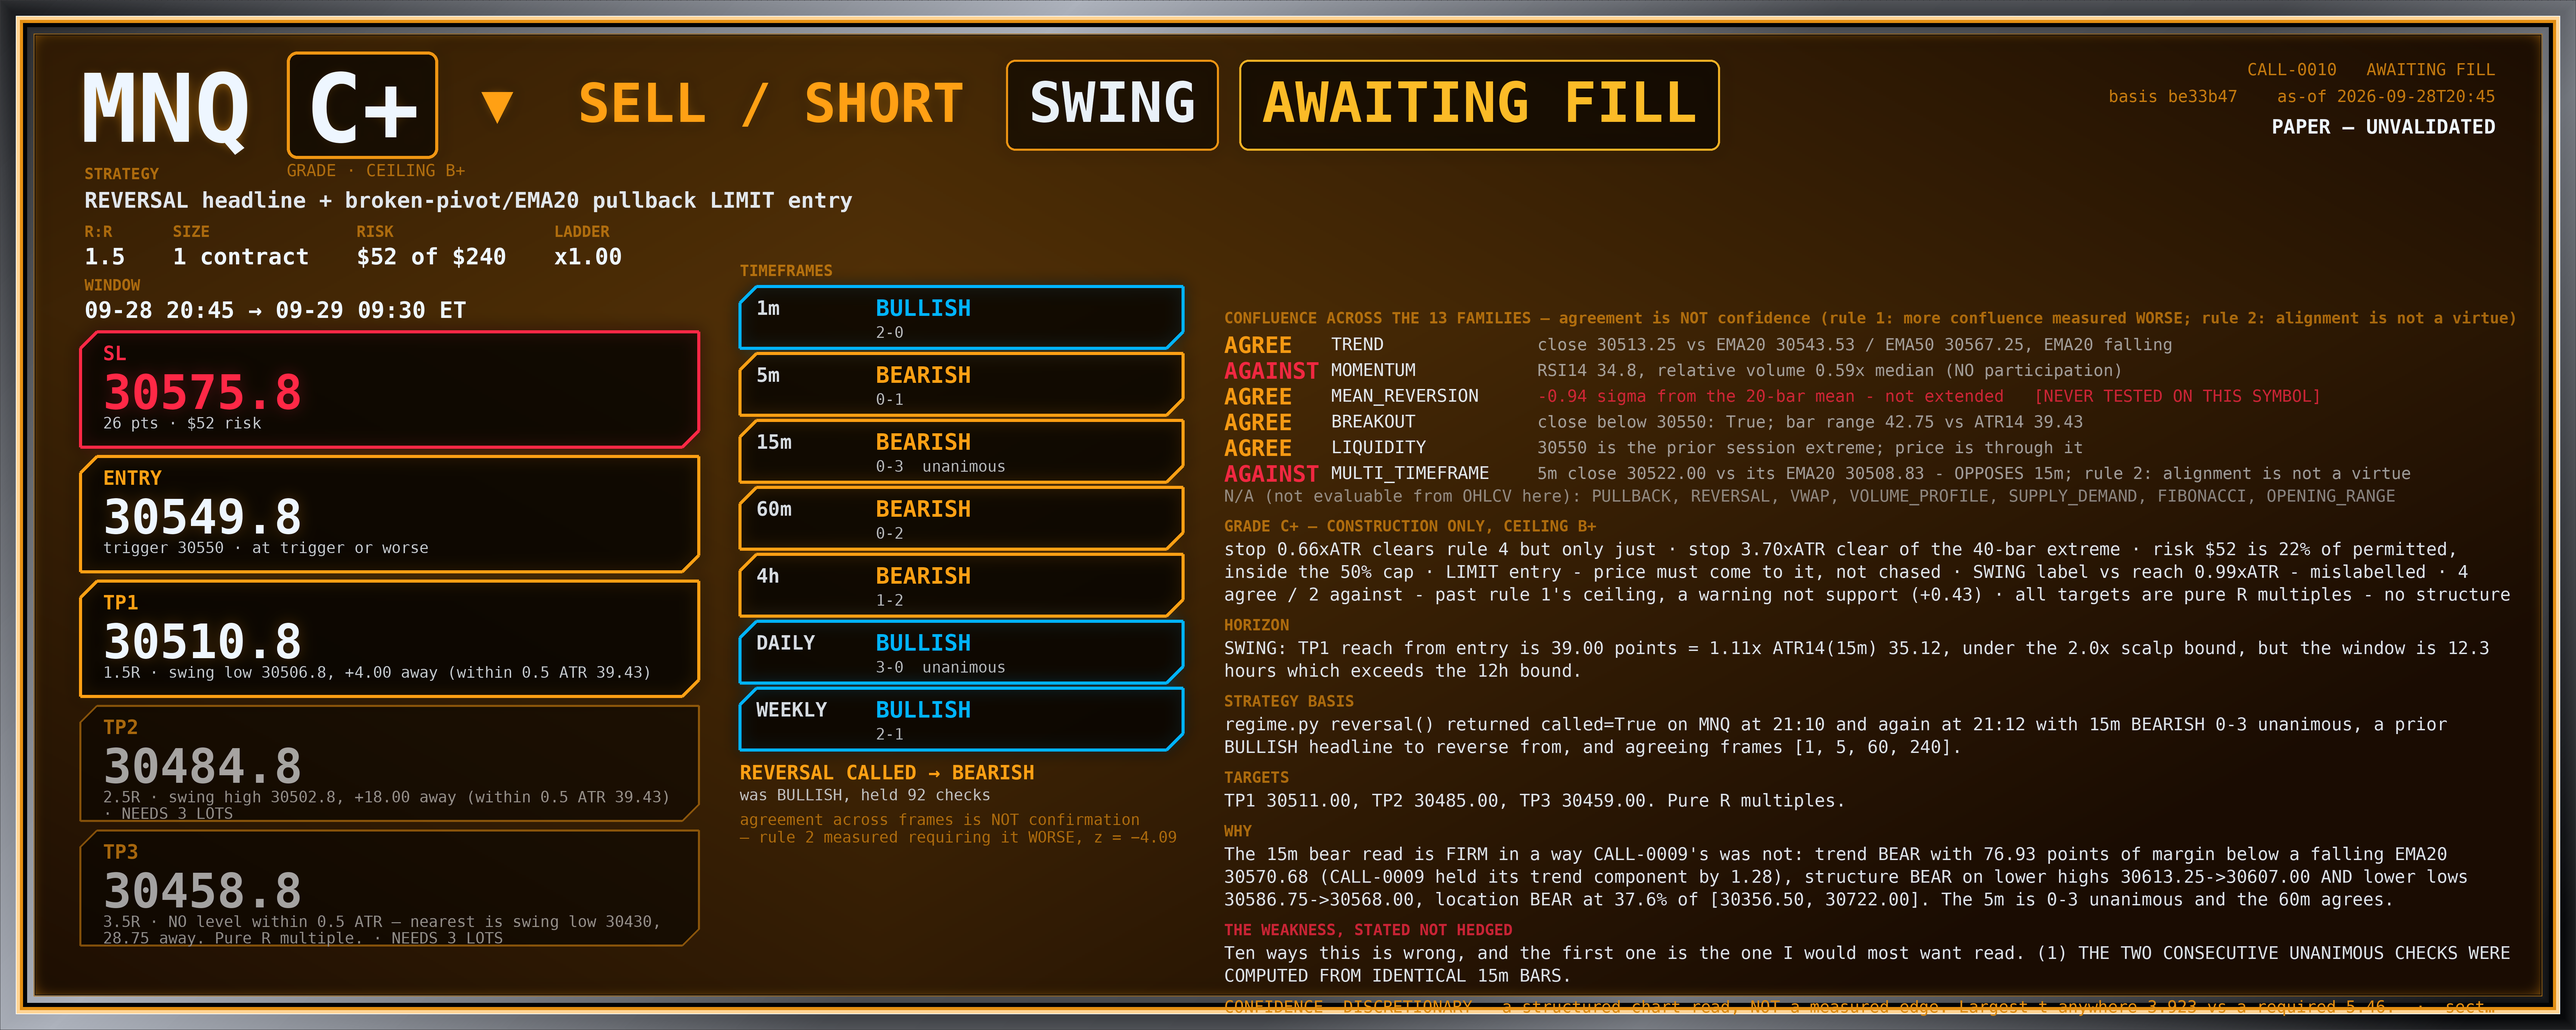
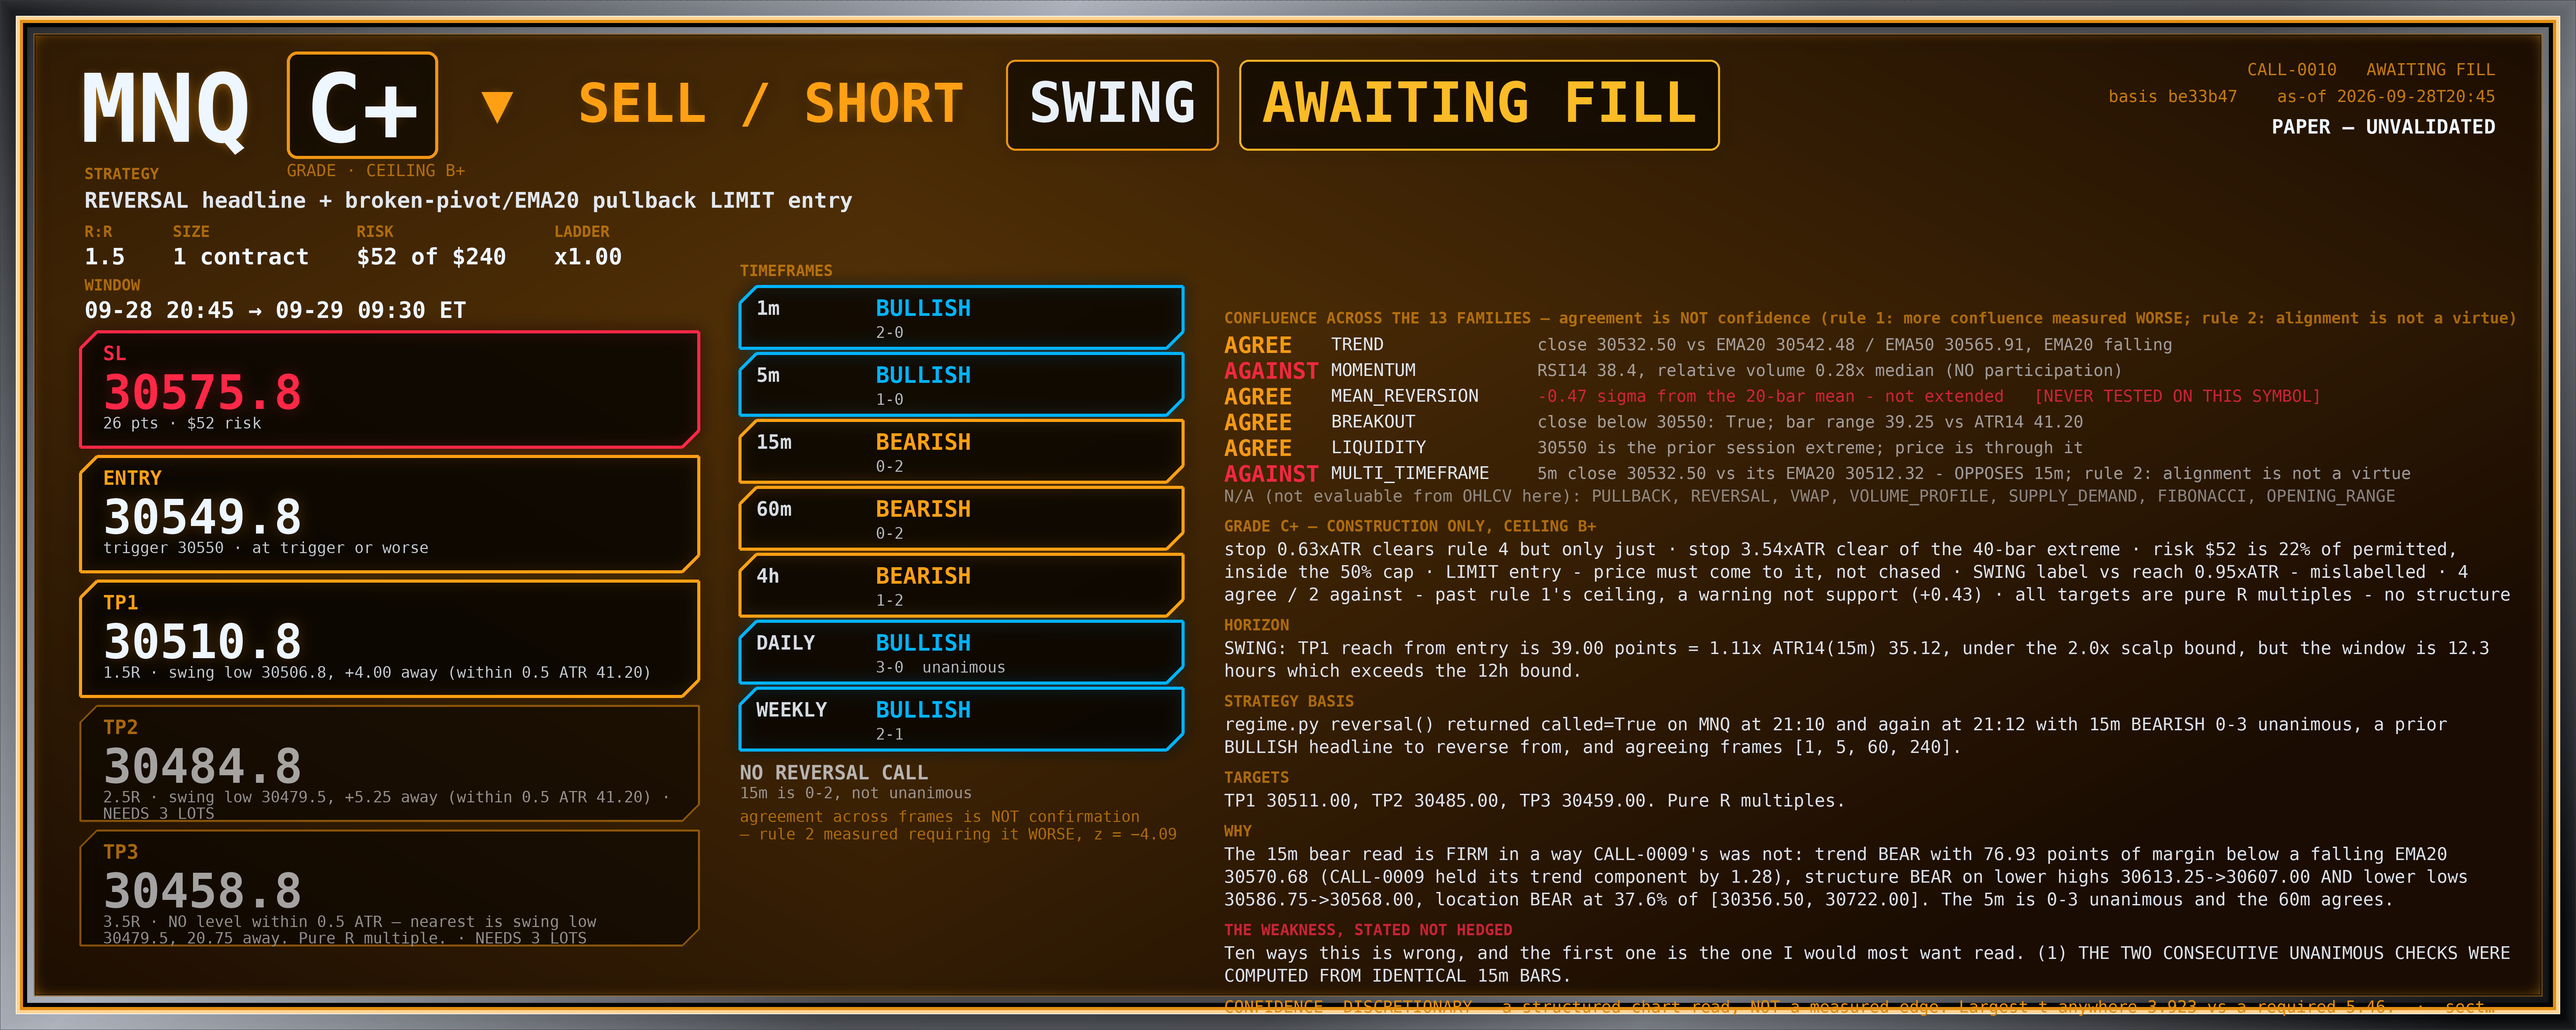
CALL: 22:30 — N242 MNQ gate breaks after ~90 checks; MGC 0.76 from first bullish gate
Claude-Session: https://claude.ai/code/session_01EE6PFk7fGa2tM4KP6dpfWD

diff --git a/workspace/paper/CALL/NOTES.md b/workspace/paper/CALL/NOTES.md
@@ -9114,3 +9114,43 @@ still deferred.
 EMA20 still rising by 0.21, location BEAR at 39.4% of [4143.90, 4181.00], 1m **BEARISH 0-3 unanimous**.
 MNQ unchanged at 0-3 unanimous, location BEAR **19.2% of [30430.00, 30722.00]** — its range low is now
 the 30430.00 print. No plan on either: MGC 15m is 0-1, and MNQ already carries CALL-0010.
+
+# N242 — MNQ's evening-long bearish gate finally broke, and MGC is 0.76 from the session's first bullish one
+
+Two structural turns on the `22:15` 15m bar, both from `swings()` re-cutting, and a feed warning worse
+than the 429s.
+
+**MNQ's unanimity is gone after roughly ninety consecutive checks.** Its 15m structure flipped BEAR →
+**MIXED** because the swing lows re-cut **30430.00 → 30479.50 (higher)**. So the sequence that had
+produced `REVERSAL CALLED` at every check since ~20:45 is broken, the headline is now BEARISH **0-2**,
+and `regime.py` prints `no reversal call`. The component that broke it is the one the owner's 30430.00
+print created — that low is no longer the last pivot, so the lower-lows chain ended.
+
+**MGC's 15m structure flipped BULL** on the same bar: highs **4158.70 → 4169.10 (higher)** *and* lows
+**4145.00 → 4157.90 (higher)**. Both conditions, not one. With trend already BULL (4165.40 above a
+rising EMA20 4159.69), MGC is **BULLISH 2-0** and needs only location above **4166.16 — 0.76 points
+away**. That would be the **first bullish 15m gate of the session** on either symbol.
+
+**If it opens I will not register on the first unanimous check.** The standard set at 21:02 and applied
+four times to MNQ (N230/N232/N238/N239) requires the unanimity to hold, and N231 requires that the hold
+span a new or revised 15m bar rather than two reads of one. A bullish gate on gold is not exempt because
+it is new or because the session has been short-only. Applying a rule only in the direction it has
+already been tested is how a standard becomes a preference.
+
+**Also worth pre-stating, so it is not decided under pressure:** if MGC does open a bull gate, N196
+forbids the obvious entry. The established displacement on the fast frames is now **up**, so a buy-stop
+over the 4169.10 pivot high is a break of a short-term extreme in the direction of displacement — the
+prohibited trade, z -2.61 to -4.72 in 4 of 4 cells. Any long would have to be a **limit below market**,
+pulling back toward the rising EMA20, with the stop under the 4157.90 higher low. At 1 contract that is
+roughly 7.50 points of risk = **$75**, which fits the $120 cap only because CALL-0010 holds $52 —
+$75 + $52 = $127 **exceeds** it. So a gold long and the live MNQ short cannot both be carried at 1
+contract each unless the stop is tighter than the structure justifies. Stating the arithmetic now, before
+the gate opens, rather than discovering it while wanting the trade.
+
+**Feed degradation, one step worse.** This pull printed `Cookie/crumb fetch failed (ConnectionError)`
+rather than the `HTTP 429` seen at 21:20 and 21:24, and it came with **revised=4** on the 5m and
+**revised=3** on the 15m against the usual 1-2. Data still arrived at a 10.6-minute lag with sensible
+values, so this is not a fetch failure and the three-strikes stop condition is not near. But the
+progression 429 → ConnectionError with elevated revision counts is the shape of a feed degrading, and
+the revisions matter more than the warning: four revised 5m bars means four readings I reported earlier
+were provisional in a way N41/N47 anticipates.
